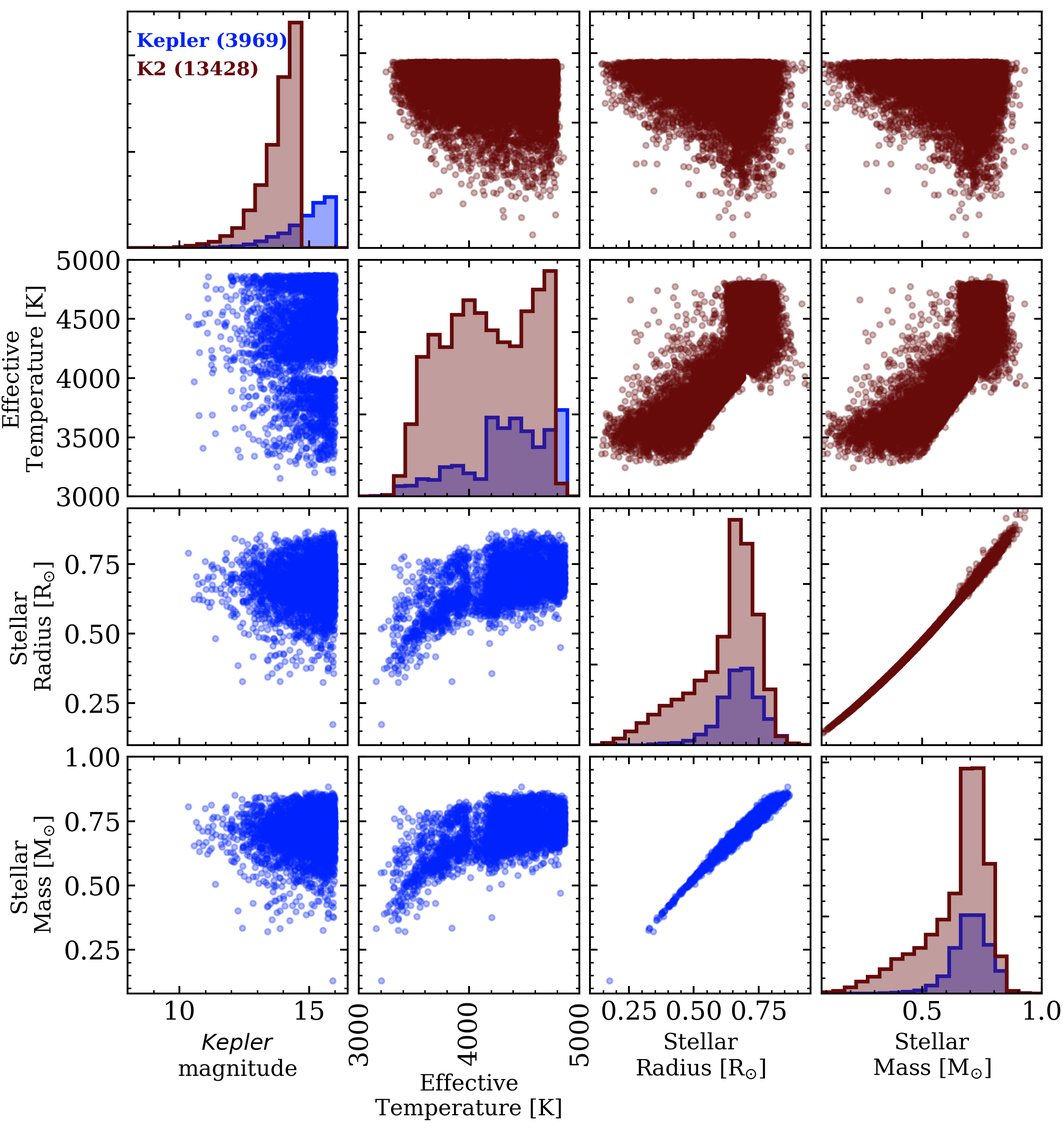
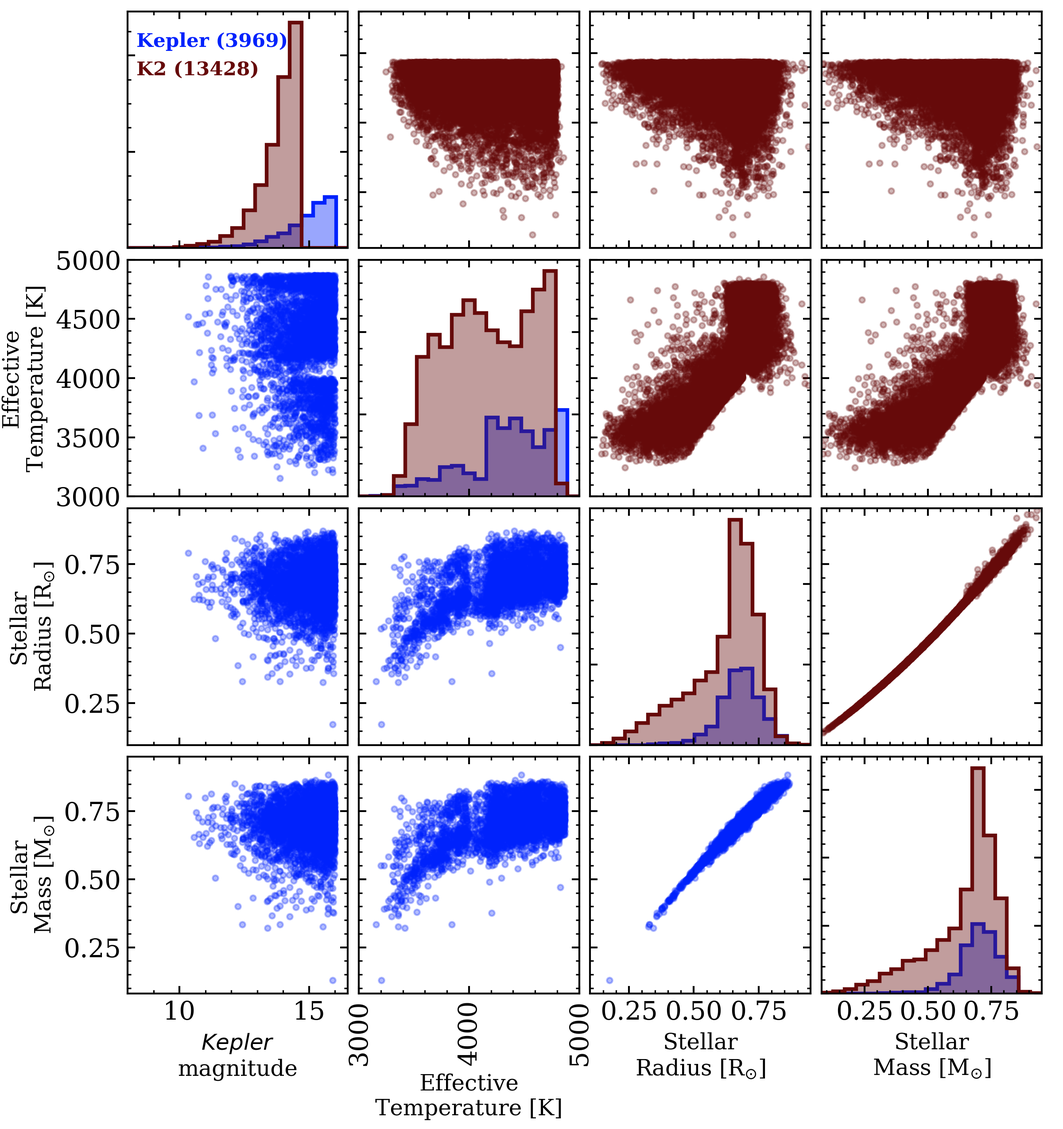
added referee comments and editted section 2

diff --git a/radvalley.tex b/radvalley.tex
@@ -181,9 +181,8 @@ the data from \citealt{berger18}). Herein we leverage the precise stellar parall
 for low mass stars observed by \kepler{} and \ktwo{} to refine the stellar parameters and compute precise
 occurrence rates of close-in planets with the goal of resolving the radius valley and accurately measuring the
 locations of its features and their uncertainties. Although it is unlikely that a single physical
-mechanism is solely responsible for sculpting the radius valley, investigation the evolution of the valley features
+mechanism is solely responsible for sculpting the radius valley, investigating the evolution of the valley features
 with stellar mass can allude to which process---if any---dominates the evolution of close-in planets.
-
 
 \begin{figure}
   \centering
@@ -207,13 +206,13 @@ to calculate the occurrence rate of small close-in planets in which the structur
 low mass stars is resolved (Sect.~\ref{sect:occurrence}). In Sect.~\ref{sect:models} we compare our results to
 model predictions and to results from planet population studies around Sun-like stars. 
 Sect.~\ref{sect:discussion} presents a discussion of our results
-and its implications followed by a summary of our main findings in Sect.~\ref{sect:conclusions}.
+and their implications followed by a summary of our main findings in Sect.~\ref{sect:conclusions}.
 
 
 \section{Low mass dwarf stellar sample} \label{sect:stars}
-The goal of this study is to extend measurements of the occurrence rate of close-in planets to planetary systems hosted
-by low mass dwarf stars with effective temperatures \teff{} $<4700$ K: the lower limit of \teff{}
-considered in the California Kepler Survey \citep[CKS;][]{fulton17}.
+The goal of this study is to extend measurements of the occurrence rate of close-in planets to planetary systems
+around low mass dwarf stars with effective temperatures \teff{} $<4700$ K, where 4700 K was the lower limit on
+\teff{} that was considered in the California Kepler Survey \citep[CKS;][]{fulton17}.
 This adopted temperature threshold approximately corresponds to spectral types later than
 K3.5V \citep{pecaut13}. In the following subsections we define our stellar samples from each of \kepler{} or \ktwo{.}
 
@@ -230,7 +229,7 @@ Kepler Survey \citep[CKS;][]{petigura17} where available, and \teff{} values for
 with \teff{} measurements to refine the stellar radii using the Stefan-Boltzmann law for the majority of \kepler{} FGK stars.
 However, bolometric corrections for \kepler{} M dwarfs with \teff{} $<4100$ K
 and absolute $K_s$-band magnitudes $M_{K_s}>3$ are known to suffer significant inaccuracies owing to incomplete
-molecular line lists. For these stars, \cite{berger18} instead adopted the empirically-derived M dwarf radius-luminosity
+molecular line lists \citep{mann15}. For these stars, \cite{berger18} instead adopted the empirically-derived M dwarf radius-luminosity
 relation from \cite{mann15} to refine the M dwarf stellar radii. \cite{berger18} also combined \teff{} and the 
 luminosity measurements to derive stellar evolutionary flags aimed at classifying stars as either a dwarf, a subgiant, or a
 red giant.
@@ -239,12 +238,12 @@ Stellar masses $M_s$ are not reported by \cite{berger18}. In order to study the 
 we derive $M_s$ values given the measured stellar radii $R_s$ and using the mass-radius relation from \cite{boyajian12} 
 applicable to both K and M dwarfs.
 \cite{boyajian12} acquired interferometric measurements with the \emph{CHARA} array of 21 nearby K and M dwarfs
-to measure the angular size of each stellar disk at the level of $\lesssim 5$\%. Their stellar sample was supplemented by 12
+to measure the angular size of each stellar disk at the level of $\lesssim 5$\%. Their stellar sample was supplemented by twelve
 literature measurements of $R_s$ from interferometry. Mass measurements were then derived using the $K_s$-band mass-luminosity
 relation from \cite{henry93} which was valid for their full stellar sample spanning 0.13-0.90 R$_{\odot}$. \cite{boyajian12}
 parameterized the stellar mass-radius relationship as a quadratic in $M_s$ and reported values and uncertainties for each polynomial
-coefficient. Here, we assume independent Gaussian probability density functions (PDF) for each coefficient and sample their values
-along with each star's $R_s$ from their respective measurement uncertainties to derive the $M_s$ PDF for all of the low mass dwarfs
+coefficient. Here, we sample each coefficient its independent Gaussian probability density function (PDF), along with
+each star's $R_s$ from its measurement uncertainty, to derive the $M_s$ PDF for all of the low mass dwarfs
 in our preliminary \kepler{} sample.
 
 We define our final \kepler{} stellar sample by focusing on stars that satisfy the following criteria:
@@ -262,8 +261,8 @@ are available (see Sect.~\ref{sect:kepsens}). Based on these criteria, we retrie
 stars whose stellar parameters are depicted in \autoref{fig:stars}.
 In our \kepler{} sample, the \kepler{} magnitudes span $K_p \in [10.35, 16.00]$ with a median value of 15.16,
 effective temperatures span \teff{} $\in [3154, 4870]$ K with a median value of 4394 K,
-stellar radii span $R_s \in [0.17, 0.87]$ R$_{\odot}$ with a median value of 0.68 R$_{\odot}$, and
-stellar masses span $M_s \in [0.13, 0.88]$ M$_{\odot}$ with a median value of 0.70 M$_{\odot}$.
+stellar radii span $R_s \in [0.17, 0.87]$ R$_{\odot}$ with a median value of 0.64 R$_{\odot}$, and
+stellar masses span $M_s \in [0.13, 0.88]$ M$_{\odot}$ with a median value of 0.67 M$_{\odot}$.
 Our final \kepler{} sample boasts a median fractional $R_s$ uncertainty of $\sim 6.7$\% which is $\sim 4-5$
 times smaller than the typical $R_s$ uncertainty reported in the KSPC. The median fractional uncertainty on
 $M_s$ is $\sim 5.5$\%.
@@ -283,14 +282,14 @@ MAST\footnote{Mikulski Archive for Space Telescopes, \url{https://archive.stsci.
 search was restricted to \ktwo{} stars with \teff{} $<4900$ K, \logg{} $>4$, and $R_s<1$ R$_{\odot}$. Note that these
 criteria are not intended to represent the parameter ranges for low mass dwarf stars but are intended as
 conservative conditions to encapsulate all such stars prior to their refinement using the \gaia{} DR2
-data. From MAST we retrieve each star's Ecliptic Plane Input Catalog
+data. From MAST, we retrieve each star's Ecliptic Plane Input Catalog
 (EPIC) numerical identifier, stellar photometry in the \kepler{} bandpass $K_p$ and 2MASS bands $JHK_s$, along
 with measured values of \teff{,} \logg{,} [Fe/H], and $R_s$.
 
 We proceed with refining the stellar parameters by cross-matching our initial \ktwo{} sample with \gaia{}  
 DR2 using the \gaia{-}\ktwo{} data products from Megan Bedell\footnote{\url{https://gaia-kepler.fun/}}. Where
-available, we retrieve reach star's celestial coordinates, stellar parallaxes $\varpi$, and \gaia{} photometry.
-Measurements of $R_s$ then follow from the methodology of \cite{berger18} and outlined as follows.
+available, we retrieve each star's celestial coordinates, stellar parallaxes $\varpi$, and \gaia{} photometry.
+\textbf{Measurements of $R_s$ then follow from the methodology of \cite{berger18} which is outlined as follows.}
 The formalism of \cite{bailerjones18} is used to transform the assumed
 Gaussian-distributed $\varpi$ PDFs into stellar distance PDFs which need not remain Gaussian.
 Using the measured distances $d$ and celestial coordinates, we interpolate over the $E_{B-V}$ extinction maps using the
@@ -298,26 +297,26 @@ Using the measured distances $d$ and celestial coordinates, we interpolate over 
 $A_{K_s}$. We then calculate each star's absolute $K_s$-band magnitude $M_{K_s} = K_s - \mu - A_{K_s}$ where
 the distance modulus is $\mu = 5\log_{10}(d/10\text{ pc})$.
 
-For the earliest stars in our sample ($M_{K_s}\leq 4.6$) , for which the bolometric corrections
-are still reliable, we interpolate the MIST bolometric correction grids \citep{choi16} over \teff{,} \logg{,} [Fe/H],
+For the earliest stars in our sample ($M_{K_s}\leq 4.6$), for which the bolometric corrections
+are reliable, we interpolate the MIST bolometric correction grids \citep{choi16} over \teff{,} \logg{,} [Fe/H],
 and $A_V$ to derive the $K_s$-band bolometric corrections $BC_{K_s}$. We then compute the
 absolute bolometric magnitudes $M_{\text{bol}}=M_{K_s} + BC_{K_s}$ and consequently the bolometric stellar
-luminosities as 
+luminosities from
 
 \begin{equation}
   L_{\text{bol}} = L_0 \cdot 10^{-0.4 M_{\text{bol}}},
 \end{equation}
 
 \noindent where $L_0 = 3.0128 \times 10^{28}$ W \citep{mamajek15}. The refined $R_s$ values
-are then calculated using the Stefan-Boltzmann law given $L_{\text{bol}}$ and \teff{} with measurement uncertainties
+are then calculated using the Stefan-Boltzmann law given $L_{\text{bol}}$ and \teff{,} with measurement uncertainties
 propagated throughout.
 
 For the remaining late type stars with $M_{K_s}>4.6$, we revert to the empirically-derived radius-luminosity relation
 from \cite{mann15} to calculate the M dwarf stellar radii. \cite{mann15} fit a second-order polynomial to $R_s$ as
 a function of $M_{K_s}$ which has a characteristic dispersion in the fractional radius uncertainty of 2.89\%. To quantify
 the final $R_s$ uncertainty we sample $M_{K_s}$ from its posterior PDF and transform each $M_{K_s}$ draw to an $R_s$ value
-using the aforementioned radius-luminosity relation. To each star's derived $R_s$ PDF, we add an additional
-dispersion term, in quadrature, whose fractional uncertainty is 2.89\%. Stellar masses within our \ktwo{} sample are derived
+using the aforementioned radius-luminosity relation. We then add, in quadrature, an additional dispersion term equal to
+the dispersion in the radius-luminosity relation. Stellar masses within our \ktwo{} sample are derived
 identically to the method applied to the \kepler{} sample using the \cite{boyajian12} stellar
 mass-radius relation (see Sect.~\ref{sect:kep}). 
 
@@ -343,14 +342,14 @@ from \cite{fulton17} that aims to reject evolved stars:
 stellar parameters are also depicted in \autoref{fig:stars}.
 In our \ktwo{} sample, the \kepler{} magnitudes span $K_p \in [8.47, 14.68]$ with a median value of 14.04,
 effective temperatures span \teff{} $\in [3246, 4856]$ K with a median value of 4017 K,
-stellar radii span $R_s \in [0.14, 0.94]$ R$_{\odot}$ with a median value of 0.70 R$_{\odot}$, and
-stellar masses span $M_s \in [0.09, 0.93]$ M$_{\odot}$ with a median value of 0.69 M$_{\odot}$.
+stellar radii span $R_s \in [0.14, 0.94]$ R$_{\odot}$ with a median value of 0.66 R$_{\odot}$, and
+stellar masses span $M_s \in [0.09, 0.93]$ M$_{\odot}$ with a median value of 0.65 M$_{\odot}$.
 The stars in this sample exhibit a median fractional $R_s$ uncertainty of $\sim 3.5$\% which is $\sim 2$
 times smaller than the typical $R_s$ uncertainty obtained for stars in our \kepler{} sample.
 The median fractional uncertainty on $M_s$ is $\sim 3.9$\%.
 
 Our full stellar sample therefore contains 17393 stars.
-Each of the \kepler{} and \ktwo{} stellar samples are dominated by mid-to-late K dwarfs
+Each of the \kepler{} and \ktwo{} stellar samples is dominated by mid-to-late K dwarfs
 with temperatures and radii $\gtrsim 3800$ K and $\gtrsim 0.6$ R$_{\odot}$ respectively. This
 fact will have important implications on our ability to precisely measure the planet occurrence
 rate around the lowest mass stars in our sample.
@@ -566,8 +565,8 @@ of the pointing corrections within the \texttt{EVEREST} light curves can vary wi
 that there is considerably more variance in the \ktwo{} detection sensitivity relative to \kepler{.} Furthermore,
 the average detection sensitivity is significantly reduced compared to \kepler{.} %The effect of the reduced
 %sensitivity on the derived occurrence rates is discussed in Sect.~\ref{sect:occurrence}.
-The reduced sensitivity is due in-part to the imperfect corrections of the reduced pointing accuracy and
-to the limited time baseline of $\sim 80$ days in a typical \ktwo{} light curve compared to \kepler{.} 
+The reduced sensitivity is due in-part to the imperfect corrections of the pointing and
+to the lesser time baseline of $\sim 80$ days in a typical \ktwo{} light curve compared to \kepler{.} 
 Furthermore, \texttt{ORION} was originally developed for use on the 2-minute cadence data
 from the \tess{} mission. Here
 we have not attempted to optimize the performance of \texttt{ORION} on \ktwo{} light curves 
@@ -583,17 +582,16 @@ as being independent and planetary.
 The sensitivity curves depicted in \autoref{fig:senscurves} enable us to extend the visualization of the
 detection sensitivity to two dimensions. Explicitly, we consider the detection sensitivity
 $s_{nij}$ for each star (indexed by $n$) and as a function of $P$ and $r_p$ which are indexed by $i$ and
-$j$ respectively. Consideration of the sensitivity in $P-r_p$ space is needed to evaluate the
-occurrence rates in that parameter space and ultimately for understanding the structure of
-the radius valley around low mass stars due to the dependence of the efficiency of atmospheric loss on
-both planet size and separation, regardless of the physical mechanism involved. 
+$j$ respectively. \textbf{The calculation of the sensitivity in $P-r_p$ space is needed to evaluate the
+  occurrence rates in that parameter space. Resolving the structure of the radius valley
+  in $P-r_p$ space is required to understand the efficiency of atmospheric loss on
+  both planet size and separation regardless of the physical mechanism responsible.}
 
-We consider orbital periods $P \in [0.5,100]$ days and planet radii $r_p \in [0.5,4]$ R$_{\oplus}$. At
-each grid cell $nij$ we compute the average S/N within the cell and map that value to the detection sensitivity
-using the data in \autoref{fig:senscurves}. The detection sensitivity maps for \kepler{} and \ktwo{,}
-averaged over the index $n$, are shown in \autoref{fig:sensmap}.
-
- 
+We consider orbital periods $P \in [0.5,100]$ days and planet radii $r_p \in [0.5,4]$ R$_{\oplus}$.
+\textbf{For each star
+$n$, and at each grid cell $ij$, we compute the average S/N. This value is then mapped to the detection sensitivity
+using the curves in \autoref{fig:senscurves}.} The resulting detection sensitivity maps for \kepler{} and \ktwo{,}
+averaged over $n$, are shown in \autoref{fig:sensmap}.
 
 \begin{figure*}
   \centering
@@ -608,17 +606,17 @@ averaged over the index $n$, are shown in \autoref{fig:sensmap}.
 \subsection{Survey completeness} \label{sect:comp}
 Only transiting planets are detectable in transit surveys. To correct for the non-detection of otherwise
 detectable but non-transiting planets we compute
-the geometric transit probability for each star $n$ and at each grid cell $ij$ in the $P-r_p$ space to be
+the geometric transit probability $p_t$ for each star $n$ and at each grid cell $ij$ in the $P-r_p$ space to be
 
 \begin{equation}
-  p_{t,nij} = \frac{R_{s,n} + r_{p,j}}{a_{ni}}. \label{eq:ptransit}
+  p_{t,nij} = \frac{R_{s,n}}{a_{ni}}. \label{eq:ptransit}
 \end{equation}
 
 \noindent Note that we are only interested in the relative planet occurrence rate and therefore do not consider
 constant scalar modifications to $p_{t,nij}$ from effects such as grazing transits or non-zero eccentricities 
 \citep{barnes07b}.
 
-The product of each star's detection sensitivity with its geometric transit probability yield completeness
+The product of each star's detection sensitivity with its geometric transit probability yields completeness
 maps as a function of $P$ and $r_p$. The average completeness maps for our \kepler{} and \ktwo{} stars are
 shown in \autoref{fig:compmap}.
 
@@ -734,7 +732,7 @@ $r_p\in [0.5,4]$ R$_{\oplus}$.
     valley around mid-K to early-M dwarfs \citep[\emph{dotted line},][]{wu19}. Also overplotted are
     \ToggleLayer{fig:on4,fig:off4}{\protect\cdbox{planets}}
     with $\geq 3\sigma$ bulk density measurements from the literature that are classified as having either
-    a rocky (\emph{circles}), a gaseous (\emph{triangles}), or an ambiguous (\emph{squares}) bulk
+    a rocky (\emph{circles}), a gaseous (\emph{triangles}), or an intermediate (\emph{squares}) bulk
     composition. Marker colors are indicative of the MAP planet bulk densities. 
     The shaded region indicates where the \kepler{} sensitivity falls below 10\%.} 
   \label{fig:fmap}
@@ -763,7 +761,7 @@ we define the following composition dispositions: \emph{rocky}
 planets have bulk densities that are greater than or consistent with a purely rocky composition
 (i.e. 100\% MgSiO$_3$) given the planet's size, \emph{gaseous} planets have bulk densities that are less
 than and inconsistent with that of a pure water world (i.e. 100\% H$_2$O) given the planet's size, 
-and all intermediate planets are flagged as having an \emph{ambiguous} bulk composition (i.e. not clearly
+and all intermediate planets are flagged as having an \emph{intermediate} bulk composition (i.e. not clearly
 terrestrial-like or likely to be hosting a significant gaseous envelope).
 
 \input{densitytable}
@@ -771,11 +769,14 @@ terrestrial-like or likely to be hosting a significant gaseous envelope).
 The retrieved planets in \autoref{fig:fmap} demonstrate clear compositional clustering with planet radius.
 All rocky planets appear to be smaller than 1.8 R$_{\oplus}$ independently of orbital period.
 Similarly, all four gaseous planets are larger than 2.6 R$_{\oplus}$ while the three remaining planets
-with intermediate radii correspond to those with ambiguous bulk compositions. 
+with intermediate radii correspond to those with intermediate bulk compositions. 
 Thus we are justified in classifying the occurrence rate peak spanning $\sim 0.9-1.4$ R$_{\oplus}$
-as representing rocky planets. The second peak between $\sim 1.9-2.3$ R$_{\oplus}$ hosts
-planets with ambiguous bulk compositions but are clearly inconsistent with being rocky
-such that we will refer to this feature as the non-rocky peak in what follows.
+as representing rocky planets. \textbf{The second peak between $\sim 1.9-2.3$ R$_{\oplus}$ hosts
+planets with intermediate bulk compositions that are clearly inconsistent with being rocky, but due to
+degeneracies in planetary internal structure models, these planets are not unambiguously known
+to host extended gaseous envelopes. In other words, the bulk compositions of these planets
+are consistent with both being volatile-rich or hosting an extended H/He envelope. 
+We will refer to this feature as the non-rocky peak in what follows.}
 
 Lastly, we note that the radius valley as a function of $P$ is not completely void of planets.
 This may allude to the efficiency of any gap clearing mechanism around low mass stars and is
@@ -787,8 +788,10 @@ discussed further in Sect.~\ref{sect:void}.
 Next, we marginalize over $P$ and compute the one-dimensional occurrence rate of small close-in planets
 as a function of $r_p$. The resulting occurrence rates are shown in \autoref{fig:rphist} in which the bimodal
 distribution of planet sizes is again clearly discernible in the MAP occurrence rates.
-The uncertainties on each $f_j$ bin are computed from the $16^{\text{th}}$ and $84^{\text{th}}$ percentiles
-of the $f_j$ posterior. In \autoref{fig:rphist} we ignore the measured occurrence rate in bins with
+\textbf{The uncertainty on each $f_j$ bin is computed from the $16^{\text{th}}$ and $84^{\text{th}}$ percentiles
+  of its $f_j$ posterior and are thus correlated given the smooth nature of the two-dimensional occurrence
+  rates (\autoref{fig:fmap}).}
+In \autoref{fig:rphist} we ignore the measured occurrence rate in bins with
 $r_p\lesssim 1$ R$_{\oplus}$ where the detection sensitivity is poor.
 
   
@@ -832,10 +835,9 @@ around low mass stars.
 In an attempt to improve the counting statistics in the occurrence rate calculations,
 we will consider an enlarged planet sample. This sample is the union of our existing sample of confirmed planets
 with a set of additional planet candidates (PCs) from the \ktwo{}
-mission. Specifically, we consider the set of PCs reported by \cite{kruse19}
-%% could add more studies here
-from \ktwo{} campaigns 0-8 that includes 126 PCs not already included in our sample of confirmed planets
-and orbiting stars contained within our stellar sample.
+mission. \textbf{Specifically, we consider the set of PCs reported by \cite{kruse19}
+from \ktwo{} campaigns 0-8. This set includes 126 PCs that are not already included in our sample of confirmed
+planets but do orbit stars within our stellar sample.}
 
 By definition we cannot identify which PCs are true planets of interest for this study and
 which PCs are instead produced by an astrophysical false positive. 
@@ -857,12 +859,12 @@ being a FP. Hence, we only focus on PCs with $r_p<4$ R$_{\oplus}$ when deriving 
 
 The resulting FP rates are reported in \autoref{tab:FP}. Half of the studies do not find any probable
 FP signals among the small PCs orbiting cool stars in their samples. In such cases, only upper limits on the FP rate
-can be derived which all agree that the FP rate is $\lesssim 20$\% at 95\%. The remaining studies
+can be derived which all agree that the FP rate is $\lesssim 20$\% at 95\% confidence. The remaining studies
 each detect at least one FP such that a non-zero maximum likelihood FP rate is measured. Their average FP rate is 5.7\%
 which is also in agreement with the derived upper limits from the aforementioned studies.
-We proceed by constructing $10^3$ realizations of the planet population
-that includes all confirmed planets from both \kepler{} and \ktwo{} plus a subset of the 126 \ktwo{} PCs from
-\cite{kruse19}. The subset of included PCs are randomly sampled from the full set of PCs
+\textbf{We proceed by constructing $10^3$ planet population realizations. Each realization
+  includes all confirmed planets from both \kepler{} and \ktwo{,} plus a subset of the 126 \ktwo{} PCs from
+\cite{kruse19}.} The subset of included PCs are randomly sampled from the full set of PCs
 according to the adopted FP rate such that each realization contains $(1-0.057)\cdot 126 \approx 119$ PCs.
 
 \input{FPtable}
@@ -986,7 +988,7 @@ in this work and around FGK stars from the CKS \citep{martinez19} are reported i
     from gas-poor formation of terrestrial planets. Also overplotted are
     \ToggleLayer{fig:on4F,fig:off4F}{\protect\cdbox{planets}}
     with $\geq 3\sigma$ bulk density measurements from the literature that are classified as having either
-    a rocky (\emph{circles}), a gaseous (\emph{triangles}), or an ambiguous (\emph{squares}) bulk
+    a rocky (\emph{circles}), a gaseous (\emph{triangles}), or an intermediate (\emph{squares}) bulk
     composition. Marker colors are indicative of the MAP planet bulk densities.
     \emph{Lower panel}: the occurrence rate map of close-in
     \kepler{} planets around Sun-like stars \citep[$r_{p,\text{valley}} \propto F^{0.12\pm 0.02}$;][]{martinez19}.
@@ -1082,7 +1084,7 @@ M$_{\odot}$ (i.e. $\sim 62$\% of our confirmed planet sample).
 In considering stars less massive than 0.65 M$_{\odot}$, the non-rocky planet peak begins to diminish relative
 to the terrestrial-sized planets. As evidenced in the MAP $f_j$ distribution around stars with
 $M_s \in [0.08,0.65]$ M$_{\odot}$, the radius valley might persist around 1.6 R$_{\oplus}$ but the non-rocky planet
-peak does not appear distinct from the rocky planet peak in the MAP $f_{ij}$ map. That is that the relative
+peak does not appear distinct from the rocky planet peak in the MAP $f_{ij}$ map. In other words, the relative
 frequency of rocky to non-rocky planets appears to increase significantly around M dwarfs compared to the more
 massive K dwarfs. This feature is further accentuated around the lowest mass stars in our sample ($<0.42$
 M$_{\odot}$) for which terrestrial-sized planets clearly dominate the distribution of close-in planets. The relative
@@ -1113,7 +1115,7 @@ hundreds of days where giant planets begin to emerge around these stars \citep{b
 
 Although our data show a significant increase in the relative occurrence of rocky to non-rocky planets
 around increasingly lower mass stars, we are unable to firmly identify the cause of this trend with these data.
-That is that there are two outstanding hypotheses that cannot be ruled out by our data. The first scenario
+In other words, there are two outstanding hypotheses that cannot be ruled out by our data. The first scenario
 requires the preferential formation of rocky planets around low mass stars such that atmospheric processing
 by photoevaporation, core-powered mass loss, or impact erosion, have little to no effect. The alternative scenario
 is that planet formation processes around low mass stars continues to produce non-rocky planets with significant
@@ -1227,9 +1229,10 @@ a characteristic planetary core size of $\approx 1$ R$_{\oplus}$ although its ex
 due to the limited detection sensitivity to sub-Earth-sized planets. Furthermore, the probabilistic classification
 of rocky planets as being primordially rocky or an evaporated core requires additional information
 about the planet's orbit and stellar host properties \citep{neil19b}. 
-For example, typical core sizes may be $M_s$-dependent
-as a core size for a fixed core mass is composition dependent and the mass of heavy elements per star
-is known to to be higher around M dwarfs compared to around FGK stars \citep{mulders15a,mulders15b,neil19}.
+\textbf{For example, there may be exist a stellar dependence on typical core sizes.
+  This is because for Earth-like cores, the core size is intimately related to the core mass and
+  final core masses depend on the availability of heavy elements which
+is known to be higher around M dwarfs than around FGK stars \citep{mulders15a,mulders15b,neil19}.}
 
 Models of the formation of the radius valley based upon photoevaporation \citep{wu19}, gas-poor formation \citep{lopez18},
 and core-powered mass loss \citep{gupta19b} all make explicit predictions for the evolution of the radius valley location
@@ -1413,12 +1416,12 @@ intersect at $P\sim 23.52$ days such that two regions of interest emerge and are
   Eq.~\ref{eq:transition} regions of interest and obtaining precise planetary bulk density measurements.
   As seen in \autoref{fig:transition}, there are only $\sim 5$ planets in the region of interest with $\geq 3\sigma$ bulk
   density measurements. These planets reveal the decrease in bulk density with increasing $r_p$ although insufficient
-  information is available to resolve a possibly sharp transition.
-  NASA's Transiting Exoplanet Survey Satellite \citep[\tess{;}][]{ricker15} has already identified eleven
-  TOIs\footnote{\tess{} Object-of-Interest.}
-  around stars with \teff{} $<4700$ K that satisfy Eq.~\ref{eq:transition} and should be targeted by RV
-  follow-up campaigns.\footnote{TOIs: 134.01 \citep{astudillodefru19}, 237.01, 260.01, 544.01, 702.01, 807.01, 833.01,
-    836.02, 873.01, 1075.01, and 1201.01.} Note that all eleven planet candidates have $P<23.52$ days.
+  information is available to resolve a possibly sharp transition. \textbf{At the time of writing, \tess{}
+    has identified such eleven TOIs\footnote{\tess{} Object-of-Interest.}
+    around stars with \teff{} $<4700$ K that satisfy Eq.~\ref{eq:transition}. Ten of these TOIs have
+    $J<11$ and should be strongly considered as targets for RV follow-up campaigns}\footnote{TOIs: 134.01
+    \citep{astudillodefru19}, 237.01, 544.01, 702.01, 807.01, 833.01,
+    836.02, 873.01, 1075.01, and 1201.01.}. Note that all ten TOIs have $P<23.52$ days.
 
 \begin{figure}
   \centering
@@ -1454,7 +1457,7 @@ intersect at $P\sim 23.52$ days such that two regions of interest emerge and are
     that fall within this region are marked by an `x'. Also overplotted are
     \ToggleLayer{fig:on1pr,fig:off1pr}{\protect\cdbox{planets}}
     with $\geq 3\sigma$ bulk density measurements from the literature that are classified as having either
-    a rocky (\emph{circles}), a gaseous (\emph{triangles}), or an ambiguous (\emph{squares}) bulk
+    a rocky (\emph{circles}), a gaseous (\emph{triangles}), or an intermediate (\emph{squares}) bulk
     composition. Marker colors are indicative of the MAP planet bulk densities.}
   \label{fig:transition}
 \end{figure}
